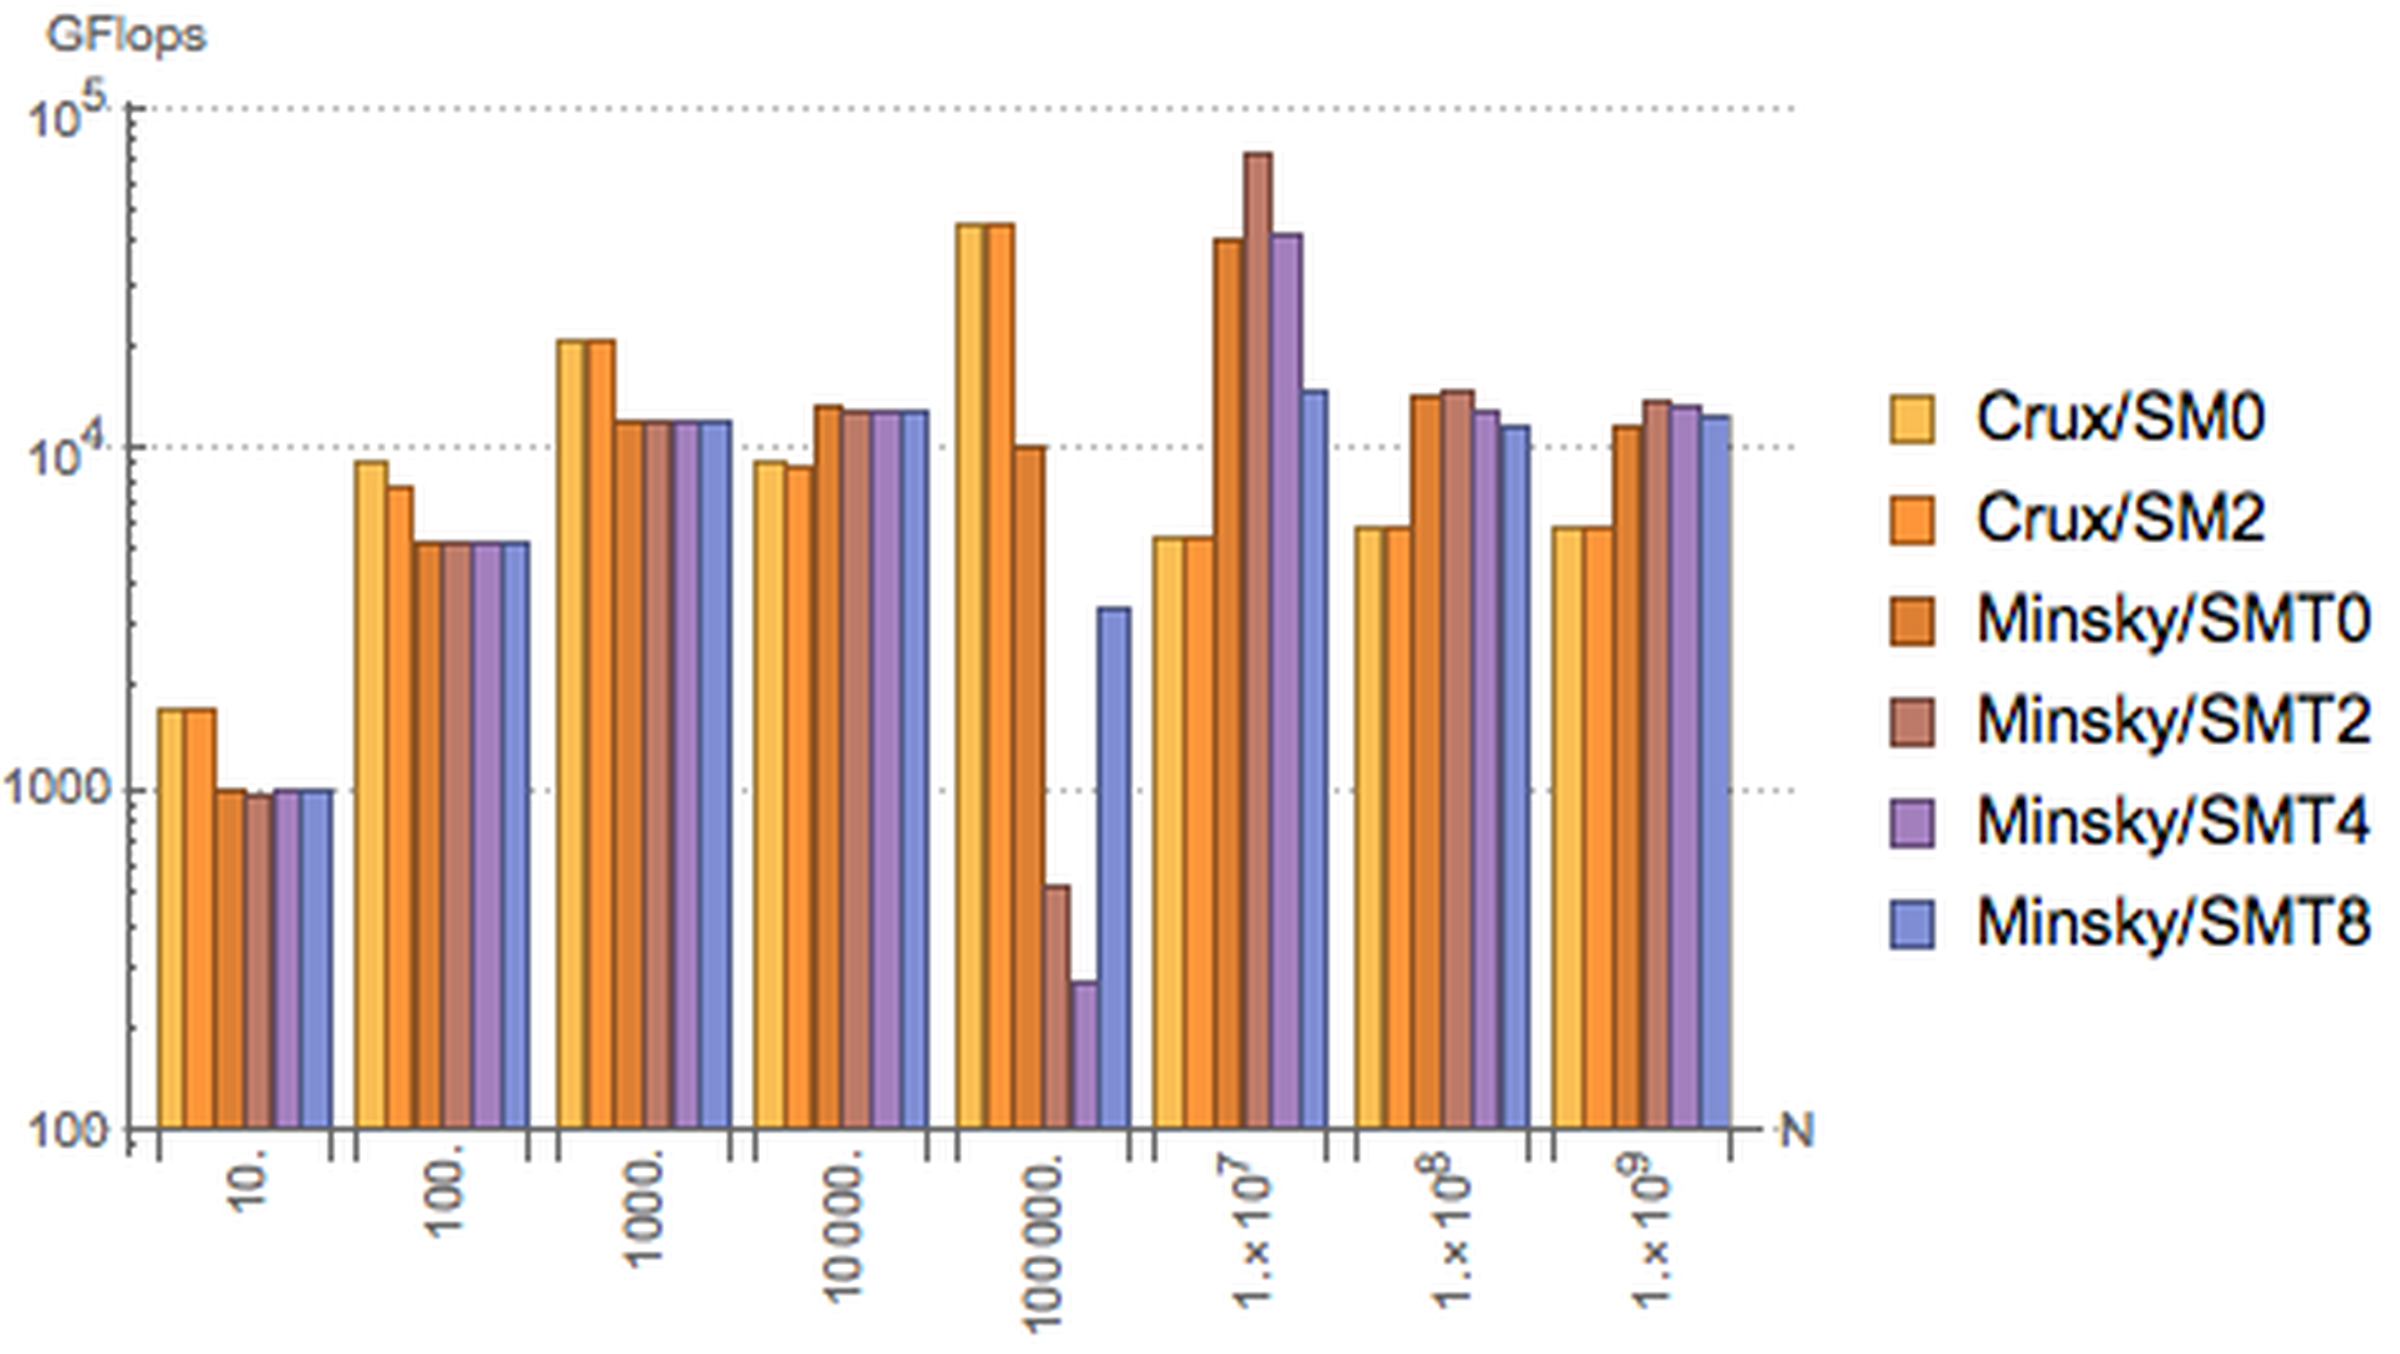
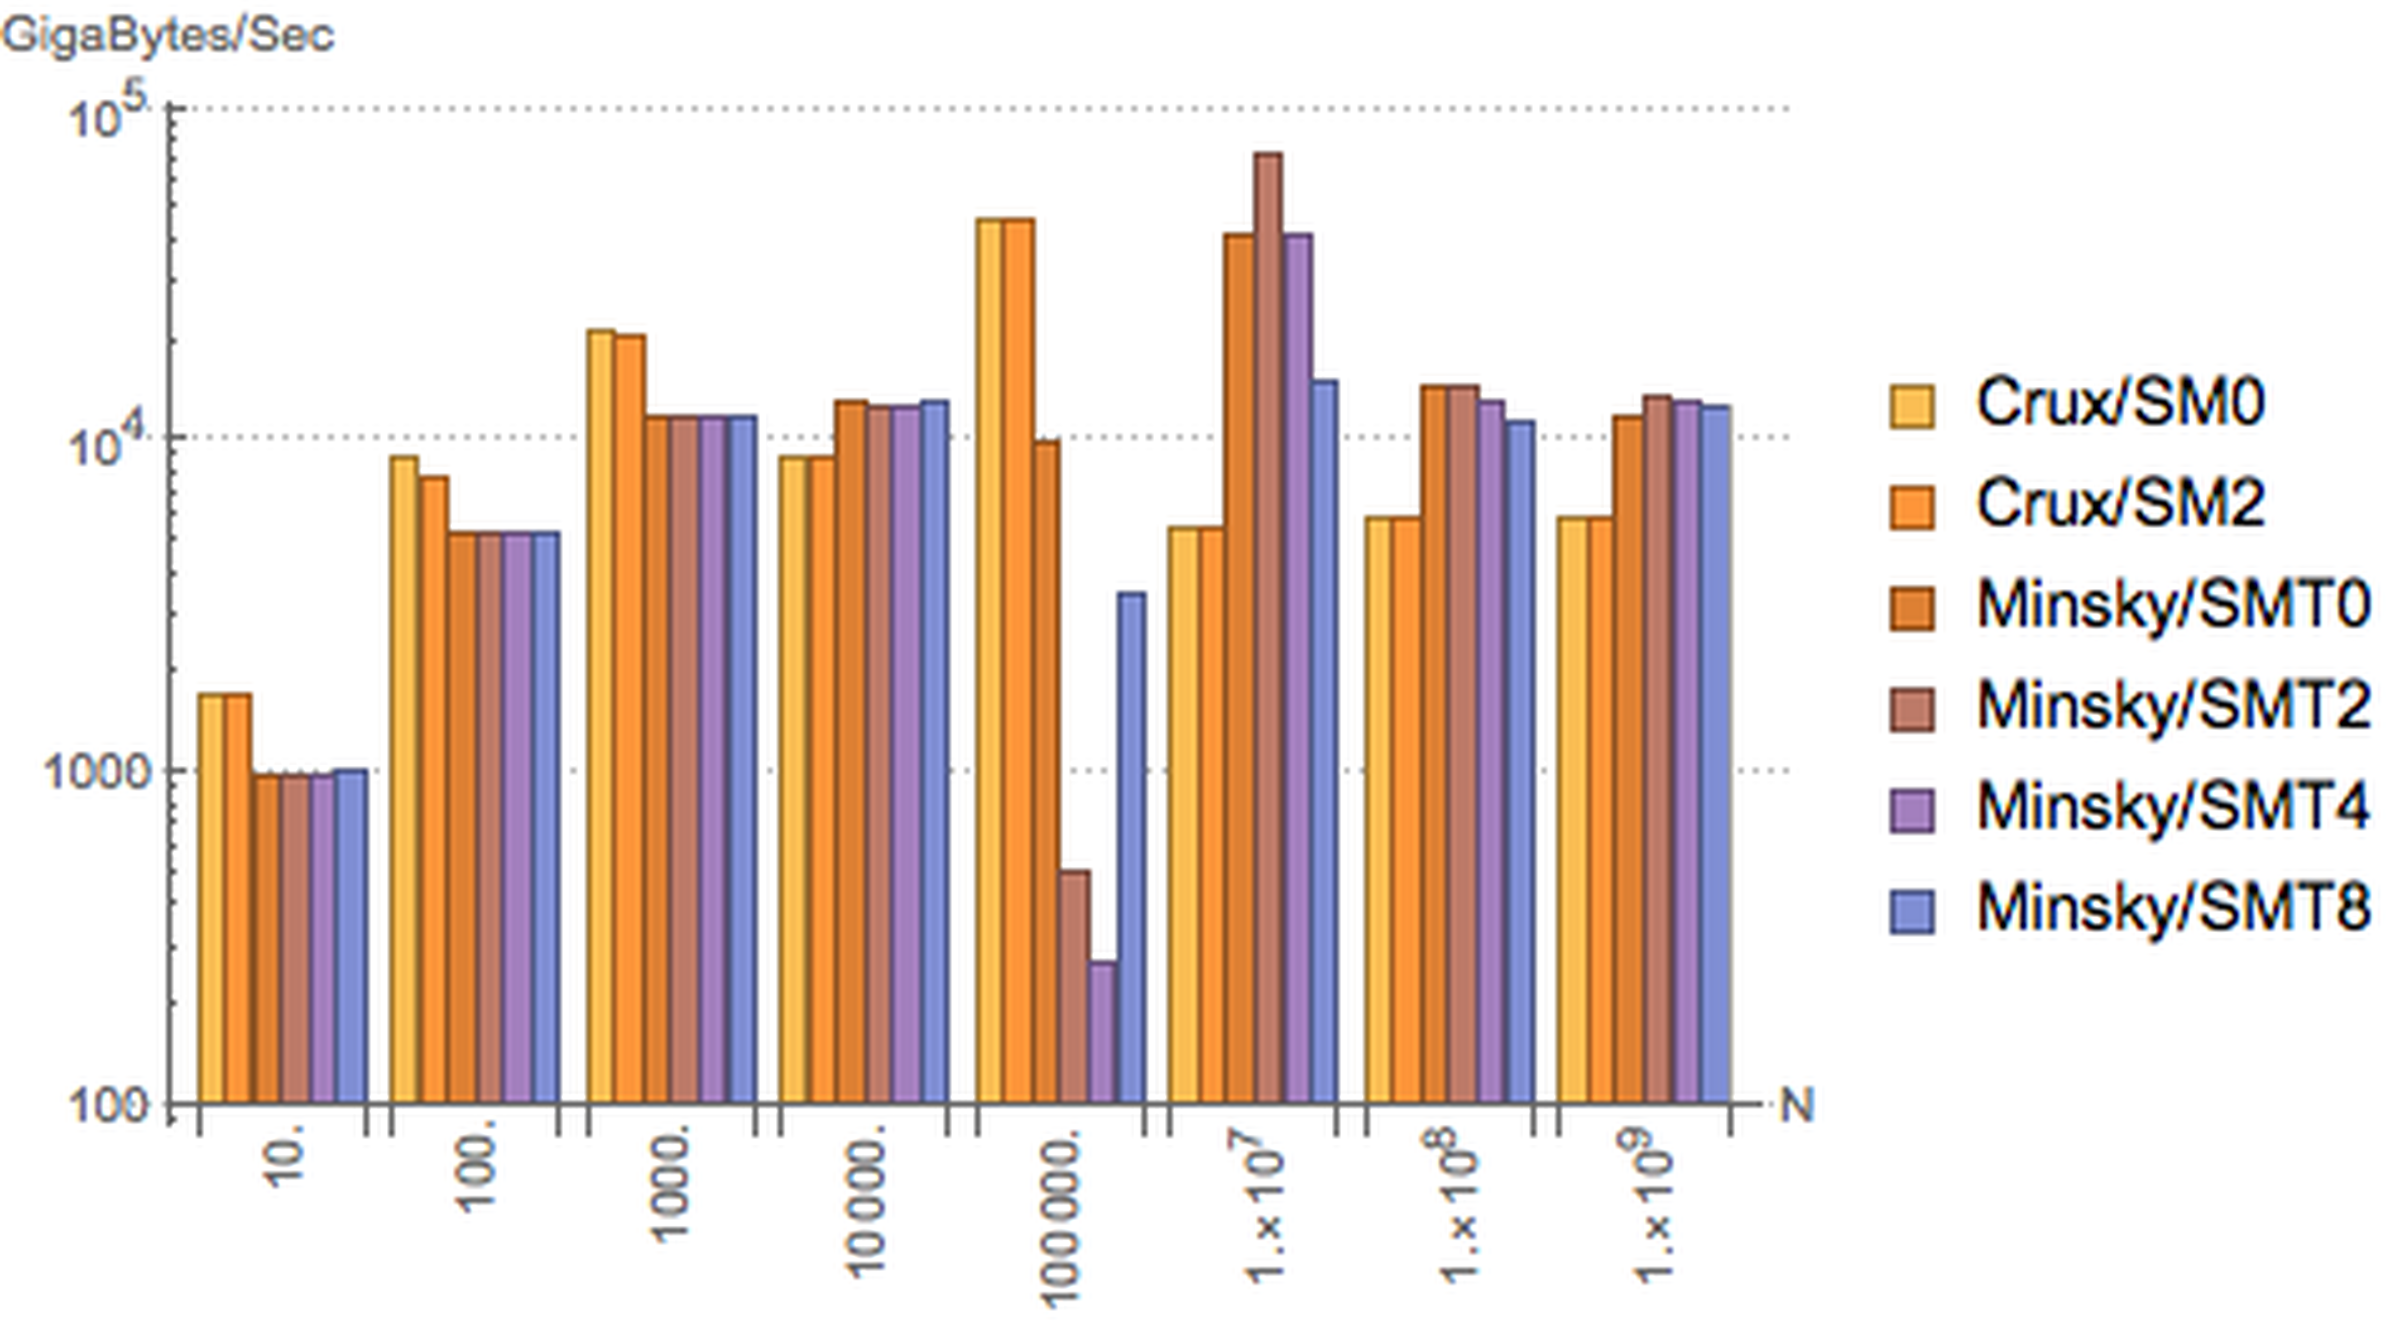
update label

diff --git a/results/daxpy.m b/results/daxpy.m
@@ -54,7 +54,7 @@ makeChart[data_] := BarChart[
       First[#]&
     ]
   ],
-  AxesLabel -> {"N", "GFlops"},
+  AxesLabel -> {"N", "GigaBytes/Sec"},
   ChartLabels -> {Placed[Keys[data], Automatic, Rotate[#, 90 Degree] &], None},
   ChartLegends -> Automatic,
   BarSpacing -> {Automatic, 1},
